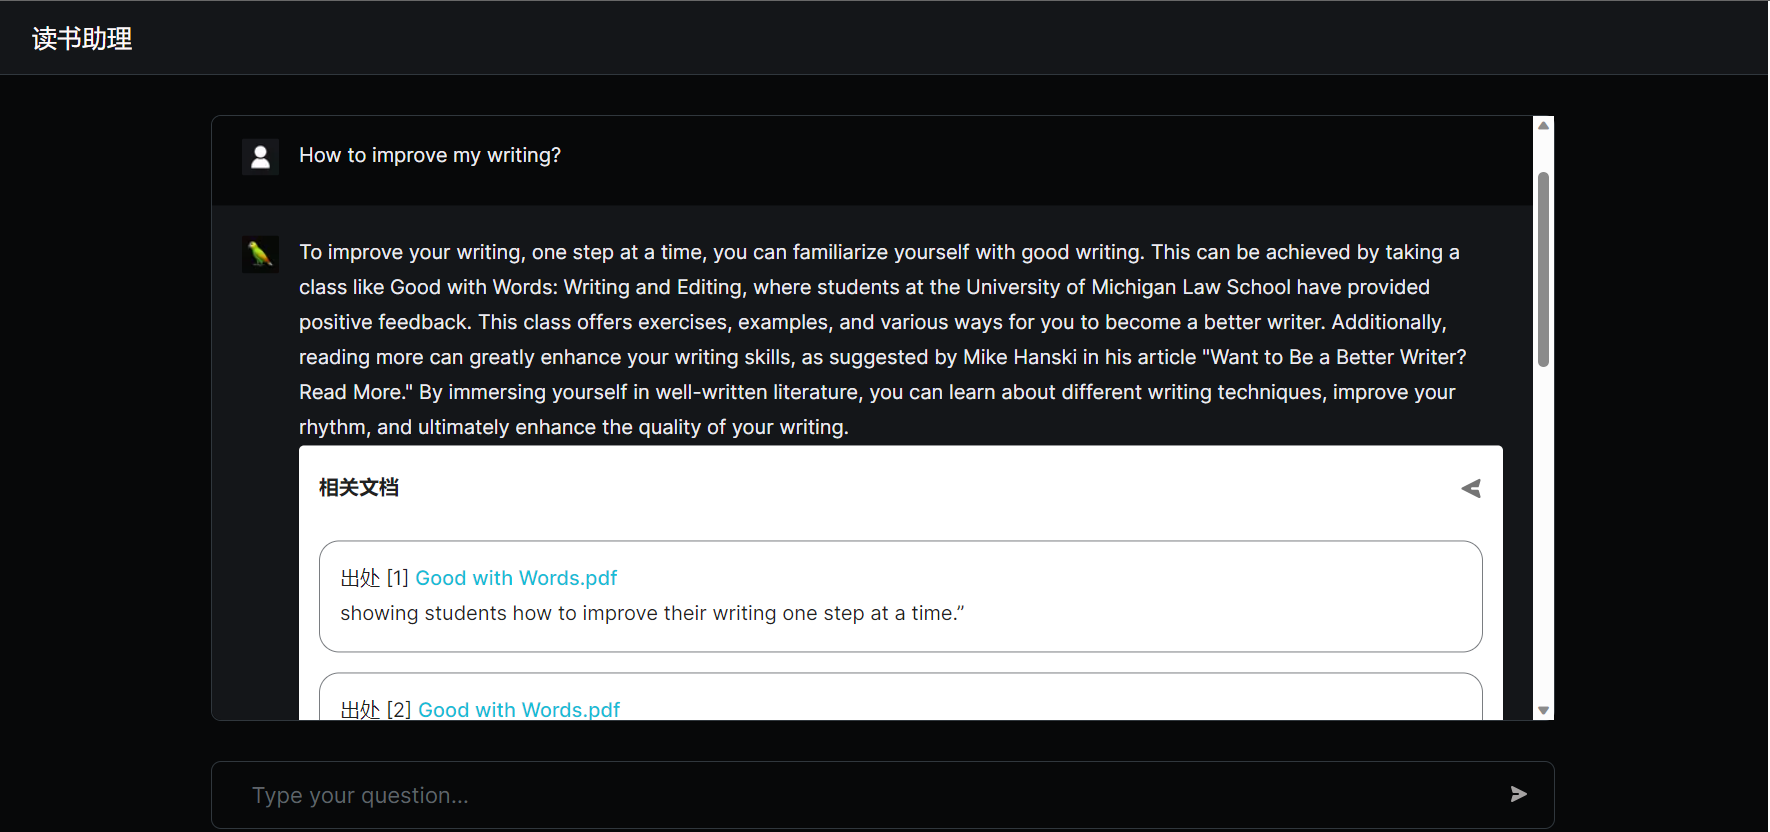
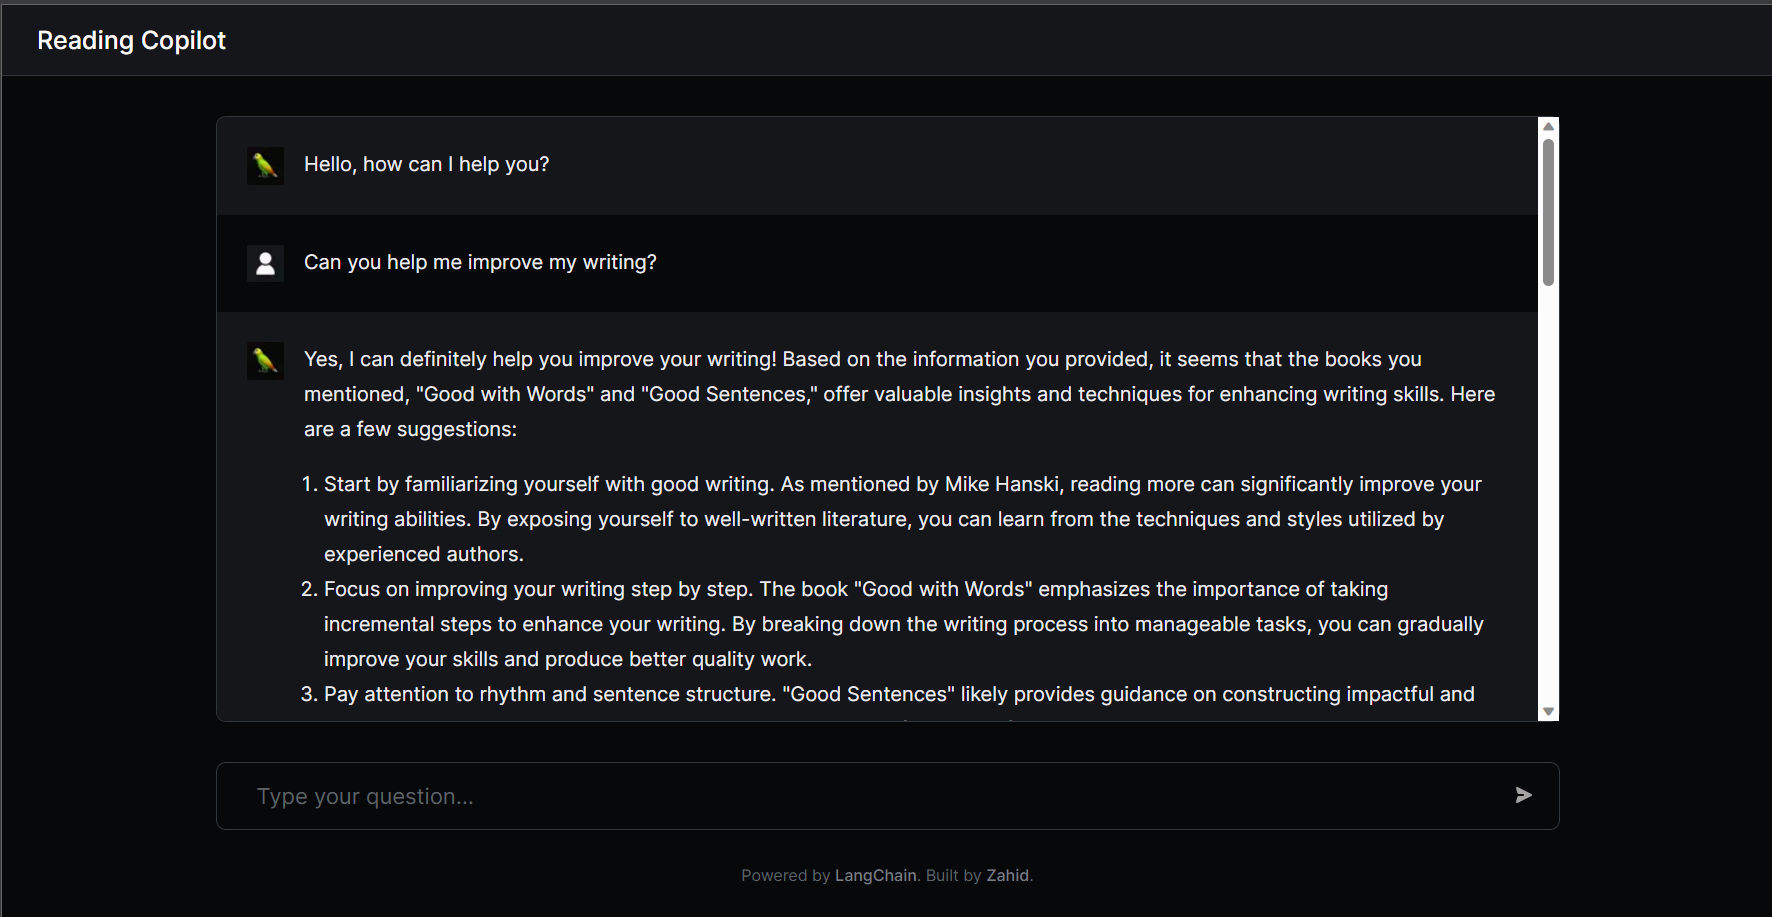
write README.md in English

diff --git a/README.md b/README.md
@@ -1,32 +1,35 @@
-## Microsoft Learn AI 技能挑战赛
-### 项目名称 : 基于LangChain 和 Azure OpenaAI的读书知识问答DEMO
-### 参赛人员： [@zR](https://github.com/zRzRzRzRzRzRzR), [@Wenwei Lin](https://github.com/wenwei-lin)
+## Reading Copilot — Microsoft Learn AI Skills Challenge Project
 
-### 项目简介
-本项目的推理端基于开源框架[Langchain-ChatChat](https://github.com/chatchat-space/Langchain-Chatchat)，并做出了如下的改进
-+ 使用Azure OpenAI Embed和Azure OpenAI Chat模型进行问答。
-+ 添加了Langchian的总结功能，允许一次Embed更多相关知识库，并进行总结后再次回答，大大提升准确率。
-+ 使用向量缓存，减少重复Embed的损失。
+### [Live Demo](https://wonderful-sea-0b60a9b00.3.azurestaticapps.net/)
 
-本项目的前端基于开源项目[LangChain Chat - Next.js](https://github.com/zahidkhawaja/langchain-chat-nextjs)，并做出如下改进：
-+ 连接自定义的推理端
-+ 在机器人回复中显示相关文档的索引
+Reading Copilot is an innovative and powerful tool designed to enhance your reading experience and knowledge acquisition. It combines cutting-edge technologies, including natural language processing and artificial intelligence, to provide users with an intelligent reading companion.
 
+### Team Members: [@zR](https://github.com/zRzRzRzRzRzRzR), [@Wenwei Lin](https://github.com/wenwei-lin)
 
-### 知识库内容
-当前，demo中的已经存放了两本书籍以及我们的一份阅读笔记。
+### Project Overview
+The inference end of this project is based on the open-source framework [Langchain-ChatChat](https://github.com/chatchat-space/Langchain-Chatchat) with the following improvements:
++ Utilizes Azure OpenAI Embed and Azure OpenAI Chat models for question-answering.
++ Adds Langchain's summarization feature, allowing for embedding more related knowledge repositories at once and summarizing before answering, significantly improving accuracy.
++ Utilizes vector caching to reduce the cost of repetitive embeddings.
+
+The frontend of this project is based on the open-source project [LangChain Chat - Next.js](https://github.com/zahidkhawaja/langchain-chat-nextjs) with the following enhancements:
++ Connects to a custom inference end.
++ Displays indexes of relevant documents in robot responses.
+
+### Knowledge Repository Contents
+Currently, the demo contains two books and our reading notes:
 + Good with Words.pdf
-+ 悠游小说林-_（意）安贝托·艾柯_-_z-lib.org_.txt
++ Six Walks in the Fictional Woods.txt
 + Bits of Note.csv
 
-我们将其命名为Books的知识库，用户可以通过输入问题，获取到对应的答案。
+We've named this knowledge repository "Books," and users can input questions to obtain corresponding answers.
 
-### Demo访问地址
-+ 我们已经将Demo 部署到了Azure Web App上，可以通过[这里](https://wonderful-sea-0b60a9b00.3.azurestaticapps.net/)访问我们的demo。
-+ 该Demo仅限展示使用，承载量很低。如果需要更好的体验，请自行部署。
+### Demo Access
++ We've deployed the demo on Azure Static Web App, and you can access it [here](https://wonderful-sea-0b60a9b00.3.azurestaticapps.net/).
++ Please note that this demo is for showcase purposes only and has low capacity. If you require a better experience, we recommend deploying it on your own.
 
-![](./imgs/book-copilot-demo.png)
+![Demo Screenshot](./imgs/book-copilot-demo.png)
 
-### 后续工作
-+ 在前端增加图书上传功能。目前，该框架已经支持及时的文件上传和更新，但是由于Azure OpenAI Embed模型的限制，上传模型可能导致前端网页延迟，目前仅支持后端上传文件并向量化。我们将在未来修复这个问题。
-+ 支持PDF在线阅读和高亮Embed结果。
+### Future Work
++ Add a book uploading feature to the frontend. Currently, the framework supports real-time file uploads and updates, but due to limitations with the Azure OpenAI Embed model, uploading models may cause frontend delays. Currently, only backend file uploads and vectorization are supported. We plan to address this issue in the future.
++ Support online PDF reading and highlight embedded results.
